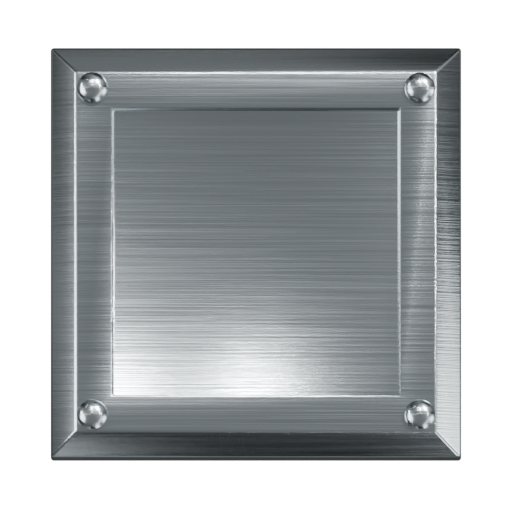
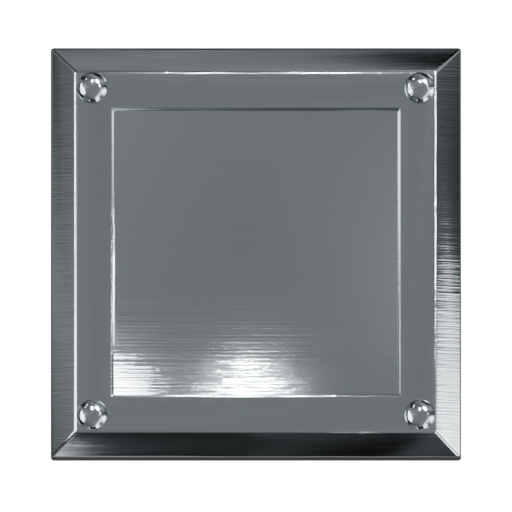
Polish the locked plate, and put it under the board's traffic
Roughness 0.20 -> 0.09 with a calmer brush, and a brighter room to
mirror. On a metal, roughness IS the shine knob - there is no diffuse
underneath to raise.

And the depths, which is the real bug. A tile view takes Phaser's
default 0 and the locked cells were drawn at 4, so anything crossing
an expansion row went BEHIND the plate: an item flying out of a
dispenser, a reward arcing to its slot, a piece dragged over the
bottom rows. A plate is part of the board. Named depths now, three of
them, because the order within the group matters too - the sheet
under the plates, a plate under its own price.

Verified in the running game: surface -3, fourteen plates at -2,
their prices at -1, and eighty-six objects still at 0 above them.

diff --git a/src/game/scenes/board/boardExpansion.ts b/src/game/scenes/board/boardExpansion.ts
@@ -3,6 +3,8 @@ import type { BoardScene } from '../BoardScene';
 import {
   COLS,
   LOCK_ART_FRAME,
+  LOCK_PLATE_DEPTH,
+  LOCK_PRICE_DEPTH,
   LOCK_ART_TINT_HIDDEN,
   LOCK_ART_TINT_READY,
   LOCK_ART_TINT_WAITING,
@@ -88,13 +90,13 @@ export function buildBoardExpansionLocks(scene: BoardScene): void {
       const pos = { col, row };
       if (!scene.grid.isBlocked(pos)) continue;
       const world = scene.cellToWorld(pos);
-      const bg = scene.add.graphics().setDepth(4);
+      const bg = scene.add.graphics().setDepth(LOCK_PLATE_DEPTH);
       // THE RENDERED PLATE, when it is loaded. The graphics object
       // stays either way - it is the fallback, and `refresh` leaves it
       // cleared when the render is there rather than drawing a second
       // plate under the first.
       const plate = scene.textures.exists('locked-plate')
-        ? scene.add.image(world.x, world.y, 'locked-plate').setDepth(4)
+        ? scene.add.image(world.x, world.y, 'locked-plate').setDepth(LOCK_PLATE_DEPTH)
         : null;
       const price = scene.add.text(world.x, world.y, '', {
         resolution: textResolution,
@@ -103,8 +105,8 @@ export function buildBoardExpansionLocks(scene: BoardScene): void {
         fontStyle: 'bold',
         color: hex(Theme.currencyCredit),
         align: 'center'
-      }).setOrigin(0.5, 0).setDepth(6);
-      const mark = scene.add.image(0, 0, 'currency-coin').setDepth(6);
+      }).setOrigin(0.5, 0).setDepth(LOCK_PRICE_DEPTH);
+      const mark = scene.add.image(0, 0, 'currency-coin').setDepth(LOCK_PRICE_DEPTH);
       const zone = scene.add.zone(world.x, world.y, scene.cellSize, scene.cellSize)
         .setDepth(7)
         .setInteractive({ useHandCursor: true });

diff --git a/src/game/scenes/board/config.ts b/src/game/scenes/board/config.ts
@@ -419,6 +419,25 @@ export const BOARD_ART_TINT = 0x808080;
 export const LOCK_ART_FRAME = 1.25;
 
 /**
+ * Where the board surface and the locked plates sit in the stack.
+ *
+ * BELOW THE TILES, which is the whole point of them being named. A
+ * tile view takes Phaser's default depth of 0, and the locked cells
+ * used to be drawn at 4 - so anything crossing a locked row passed
+ * BEHIND the plate and vanished: an item flying out of a dispenser, a
+ * reward arcing to its slot, a piece being dragged over the bottom
+ * two rows. A plate is part of the board, and nothing that moves over
+ * the board should go under it.
+ *
+ * Three steps rather than one, because the order within them matters
+ * too: the board's own sheet is under the plates, and a plate is
+ * under its own price.
+ */
+export const BOARD_SURFACE_DEPTH = -3;
+export const LOCK_PLATE_DEPTH = -2;
+export const LOCK_PRICE_DEPTH = -1;
+
+/**
  * The three states, as multiplies over the one render.
  *
  * Taken as ratios off the drawn plate this replaces: its face was

diff --git a/src/game/scenes/BoardScene.ts b/src/game/scenes/BoardScene.ts
@@ -254,6 +254,7 @@ import {
   SAVE_KEY,
   BOARD_ART_ALPHA,
   BOARD_ART_FRAME,
+  BOARD_SURFACE_DEPTH,
   BOARD_ART_TINT,
   BOARD_ART_TILT,
   SOURCE_FAMILIES,
@@ -1426,7 +1427,8 @@ export class BoardScene extends Phaser.Scene {
         'board-art'
       ).setDisplaySize(
         frame, frame / Math.cos(Phaser.Math.DegToRad(BOARD_ART_TILT))
-      ).setAlpha(BOARD_ART_ALPHA).setTint(BOARD_ART_TINT);
+      ).setAlpha(BOARD_ART_ALPHA).setTint(BOARD_ART_TINT)
+        .setDepth(BOARD_SURFACE_DEPTH);
     }
 
     // NOTHING DRAWN OVER THE RENDER. The pane, its reflection streak,
@@ -1436,7 +1438,7 @@ export class BoardScene extends Phaser.Scene {
     // and the hairlines draw every scored line twice.
     if (this.boardSurface) return;
 
-    const g = this.add.graphics();
+    const g = this.add.graphics().setDepth(BOARD_SURFACE_DEPTH);
     g.fillStyle(0x0f0d0b, 0.95);
     g.fillRoundedRect(x0, y0, bw, bh, Theme.radiusPanel);
     g.lineStyle(1, Theme.borderOnDark, 0.5);

diff --git a/src/game/objects/itemSprites.ts b/src/game/objects/itemSprites.ts
@@ -138,7 +138,7 @@ export function itemSpriteKey(typeId: string, tier: number): string {
  * A version in the query string makes the URL new, so every client refetches
  * once and then caches again normally.
  */
-export const ITEM_ART_VERSION = 54;
+export const ITEM_ART_VERSION = 55;
 
 /** Where the renderer writes it, relative to `public/`. */
 export function itemSpritePath(typeId: string, tier: number): string {

diff --git a/tools/blender/render_items.py b/tools/blender/render_items.py
@@ -598,7 +598,7 @@ def weathered(mat, strength=0.30, scale=48.0):
     return mat
 
 
-def brushed(mat, roughness=0.20, strength=0.55, scale=(1.6, 340.0, 1.6)):
+def brushed(mat, roughness=0.20, strength=0.42, scale=(1.6, 340.0, 1.6)):
     """Directional roughness: the thing that makes steel read as steel.
 
     A metal with one flat roughness value has a single round highlight
@@ -3640,8 +3640,8 @@ LOCK_LIGHT_SCALE = 0.40
 #
 # A metal is nothing but its reflections, so this is not a background
 # setting - it is most of the plate's appearance.
-LOCK_HDRI_STRENGTH = 0.55
-LOCK_ROUGHNESS = 0.20
+LOCK_HDRI_STRENGTH = 0.72
+LOCK_ROUGHNESS = 0.09
 LOCK_FRAME_CELLS = 1.25
 LOCK_PX = 512
 
